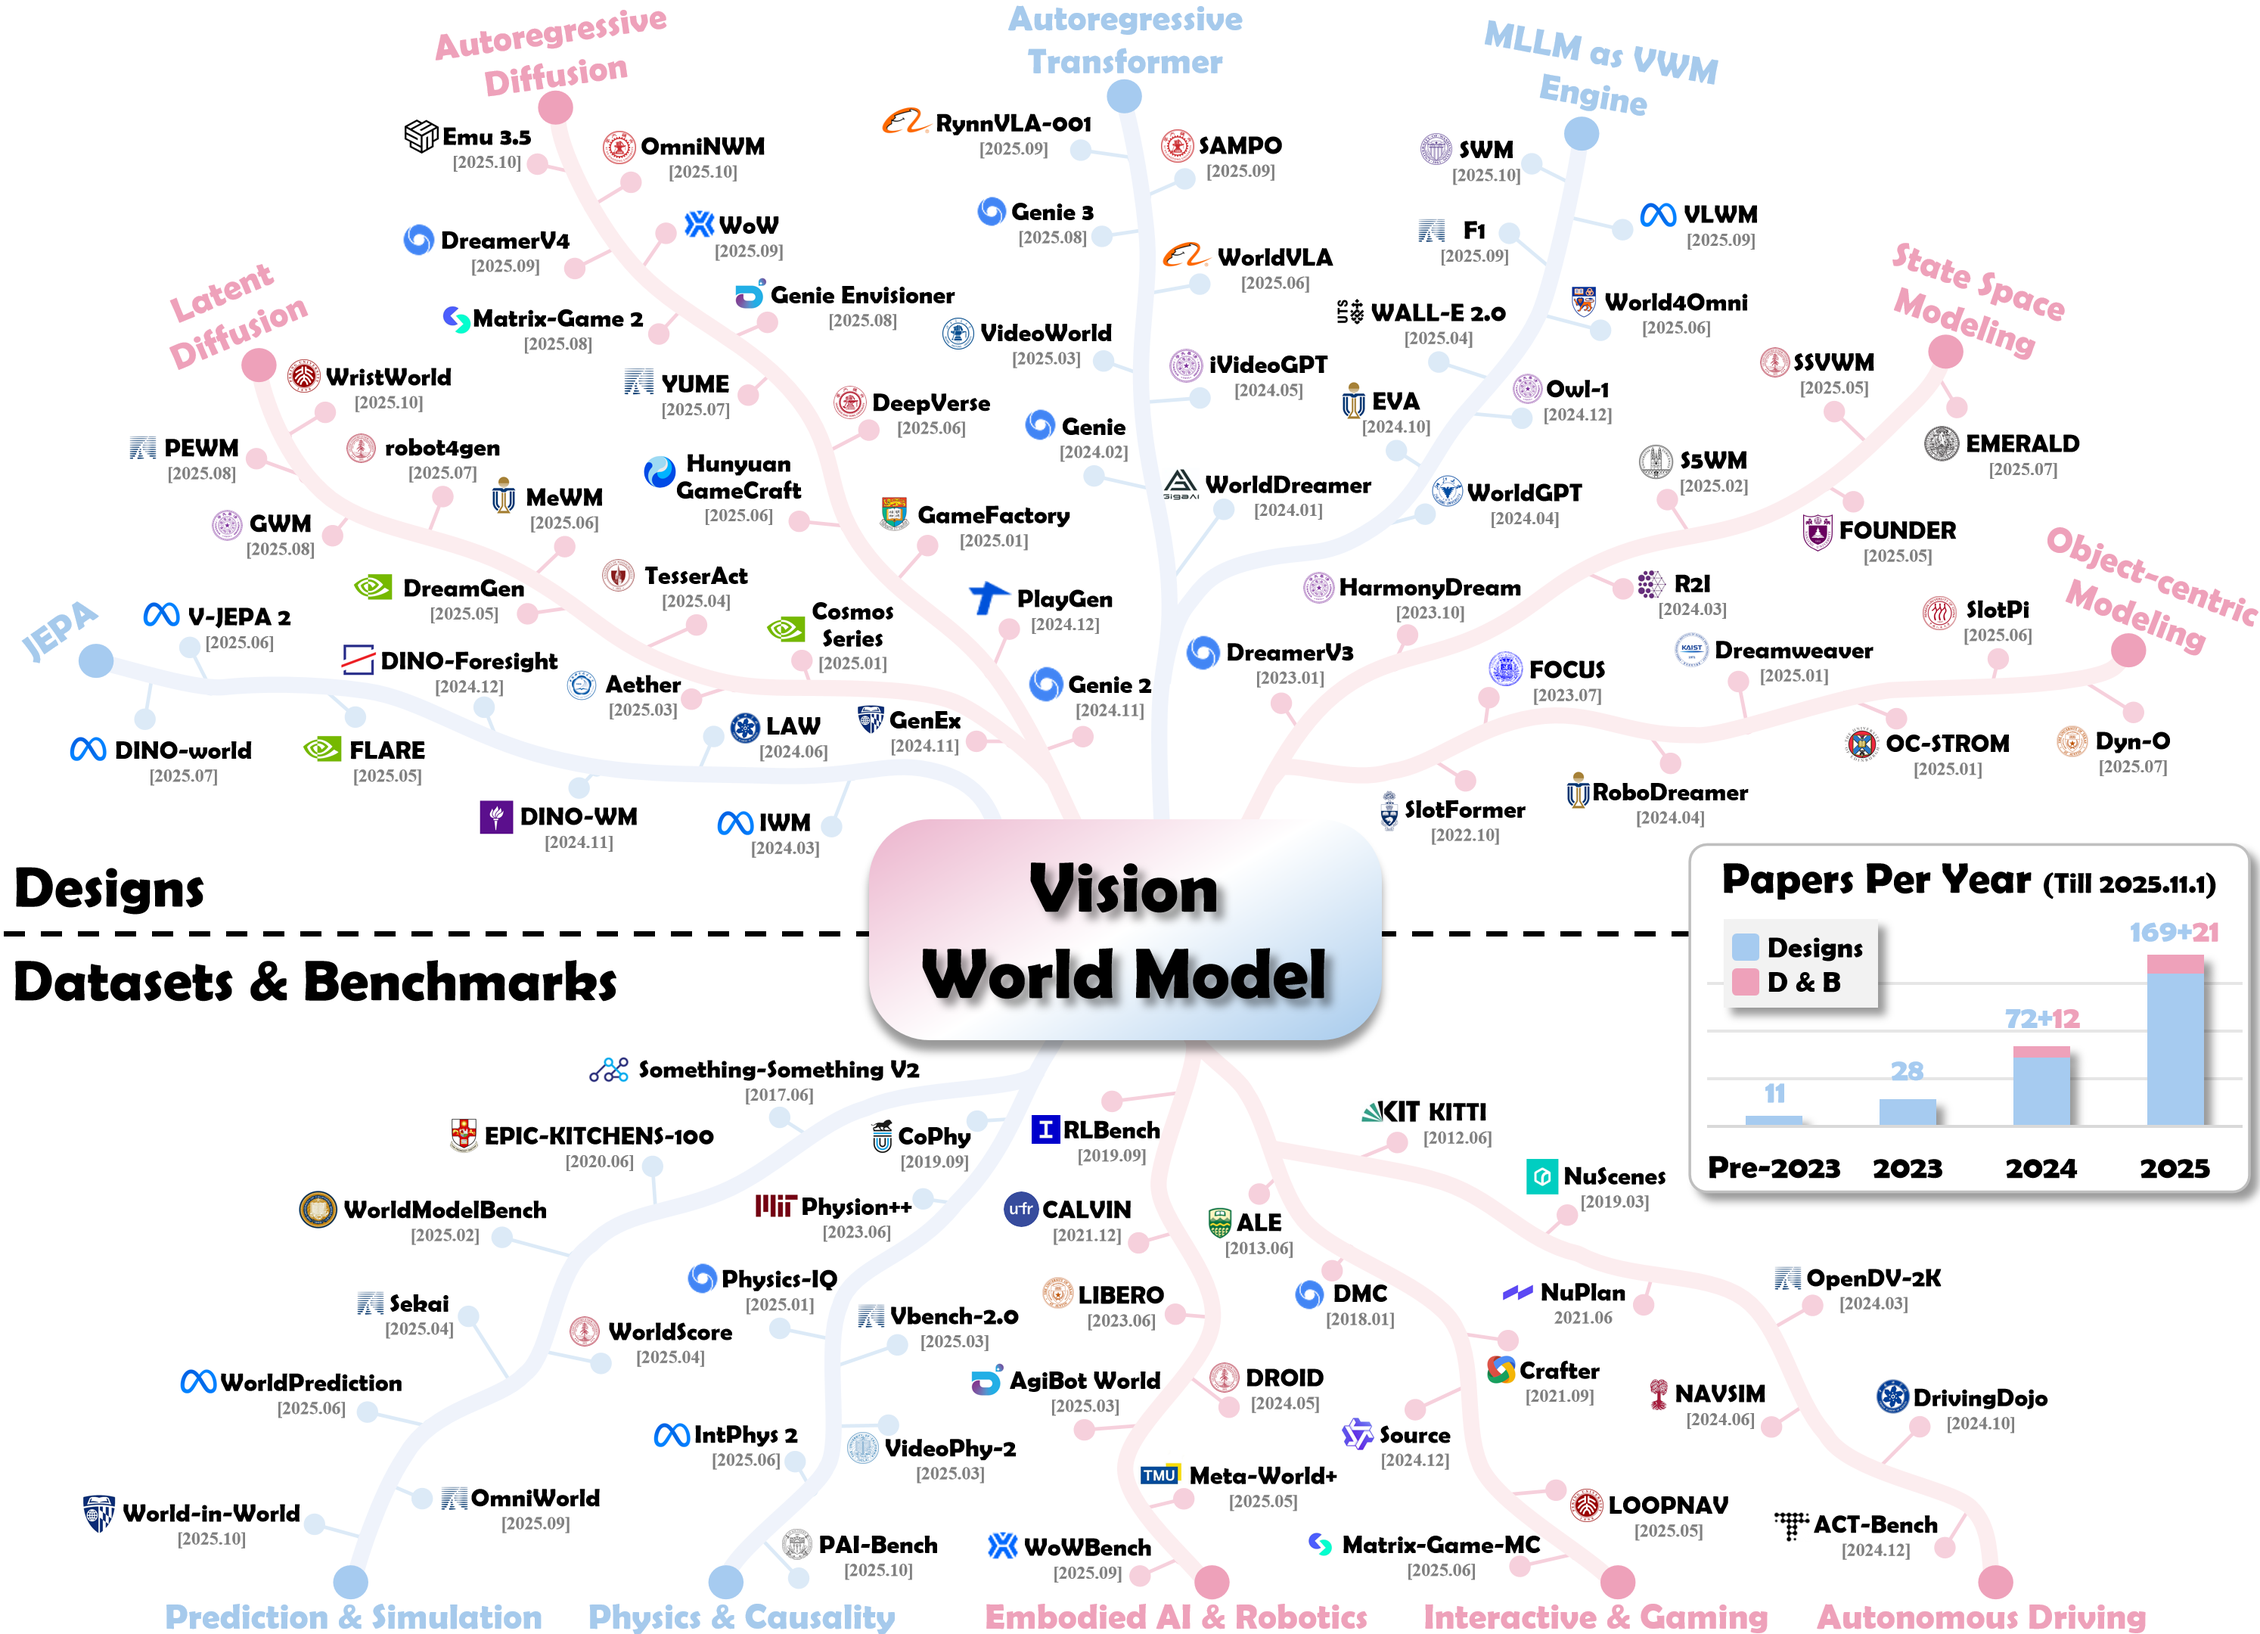
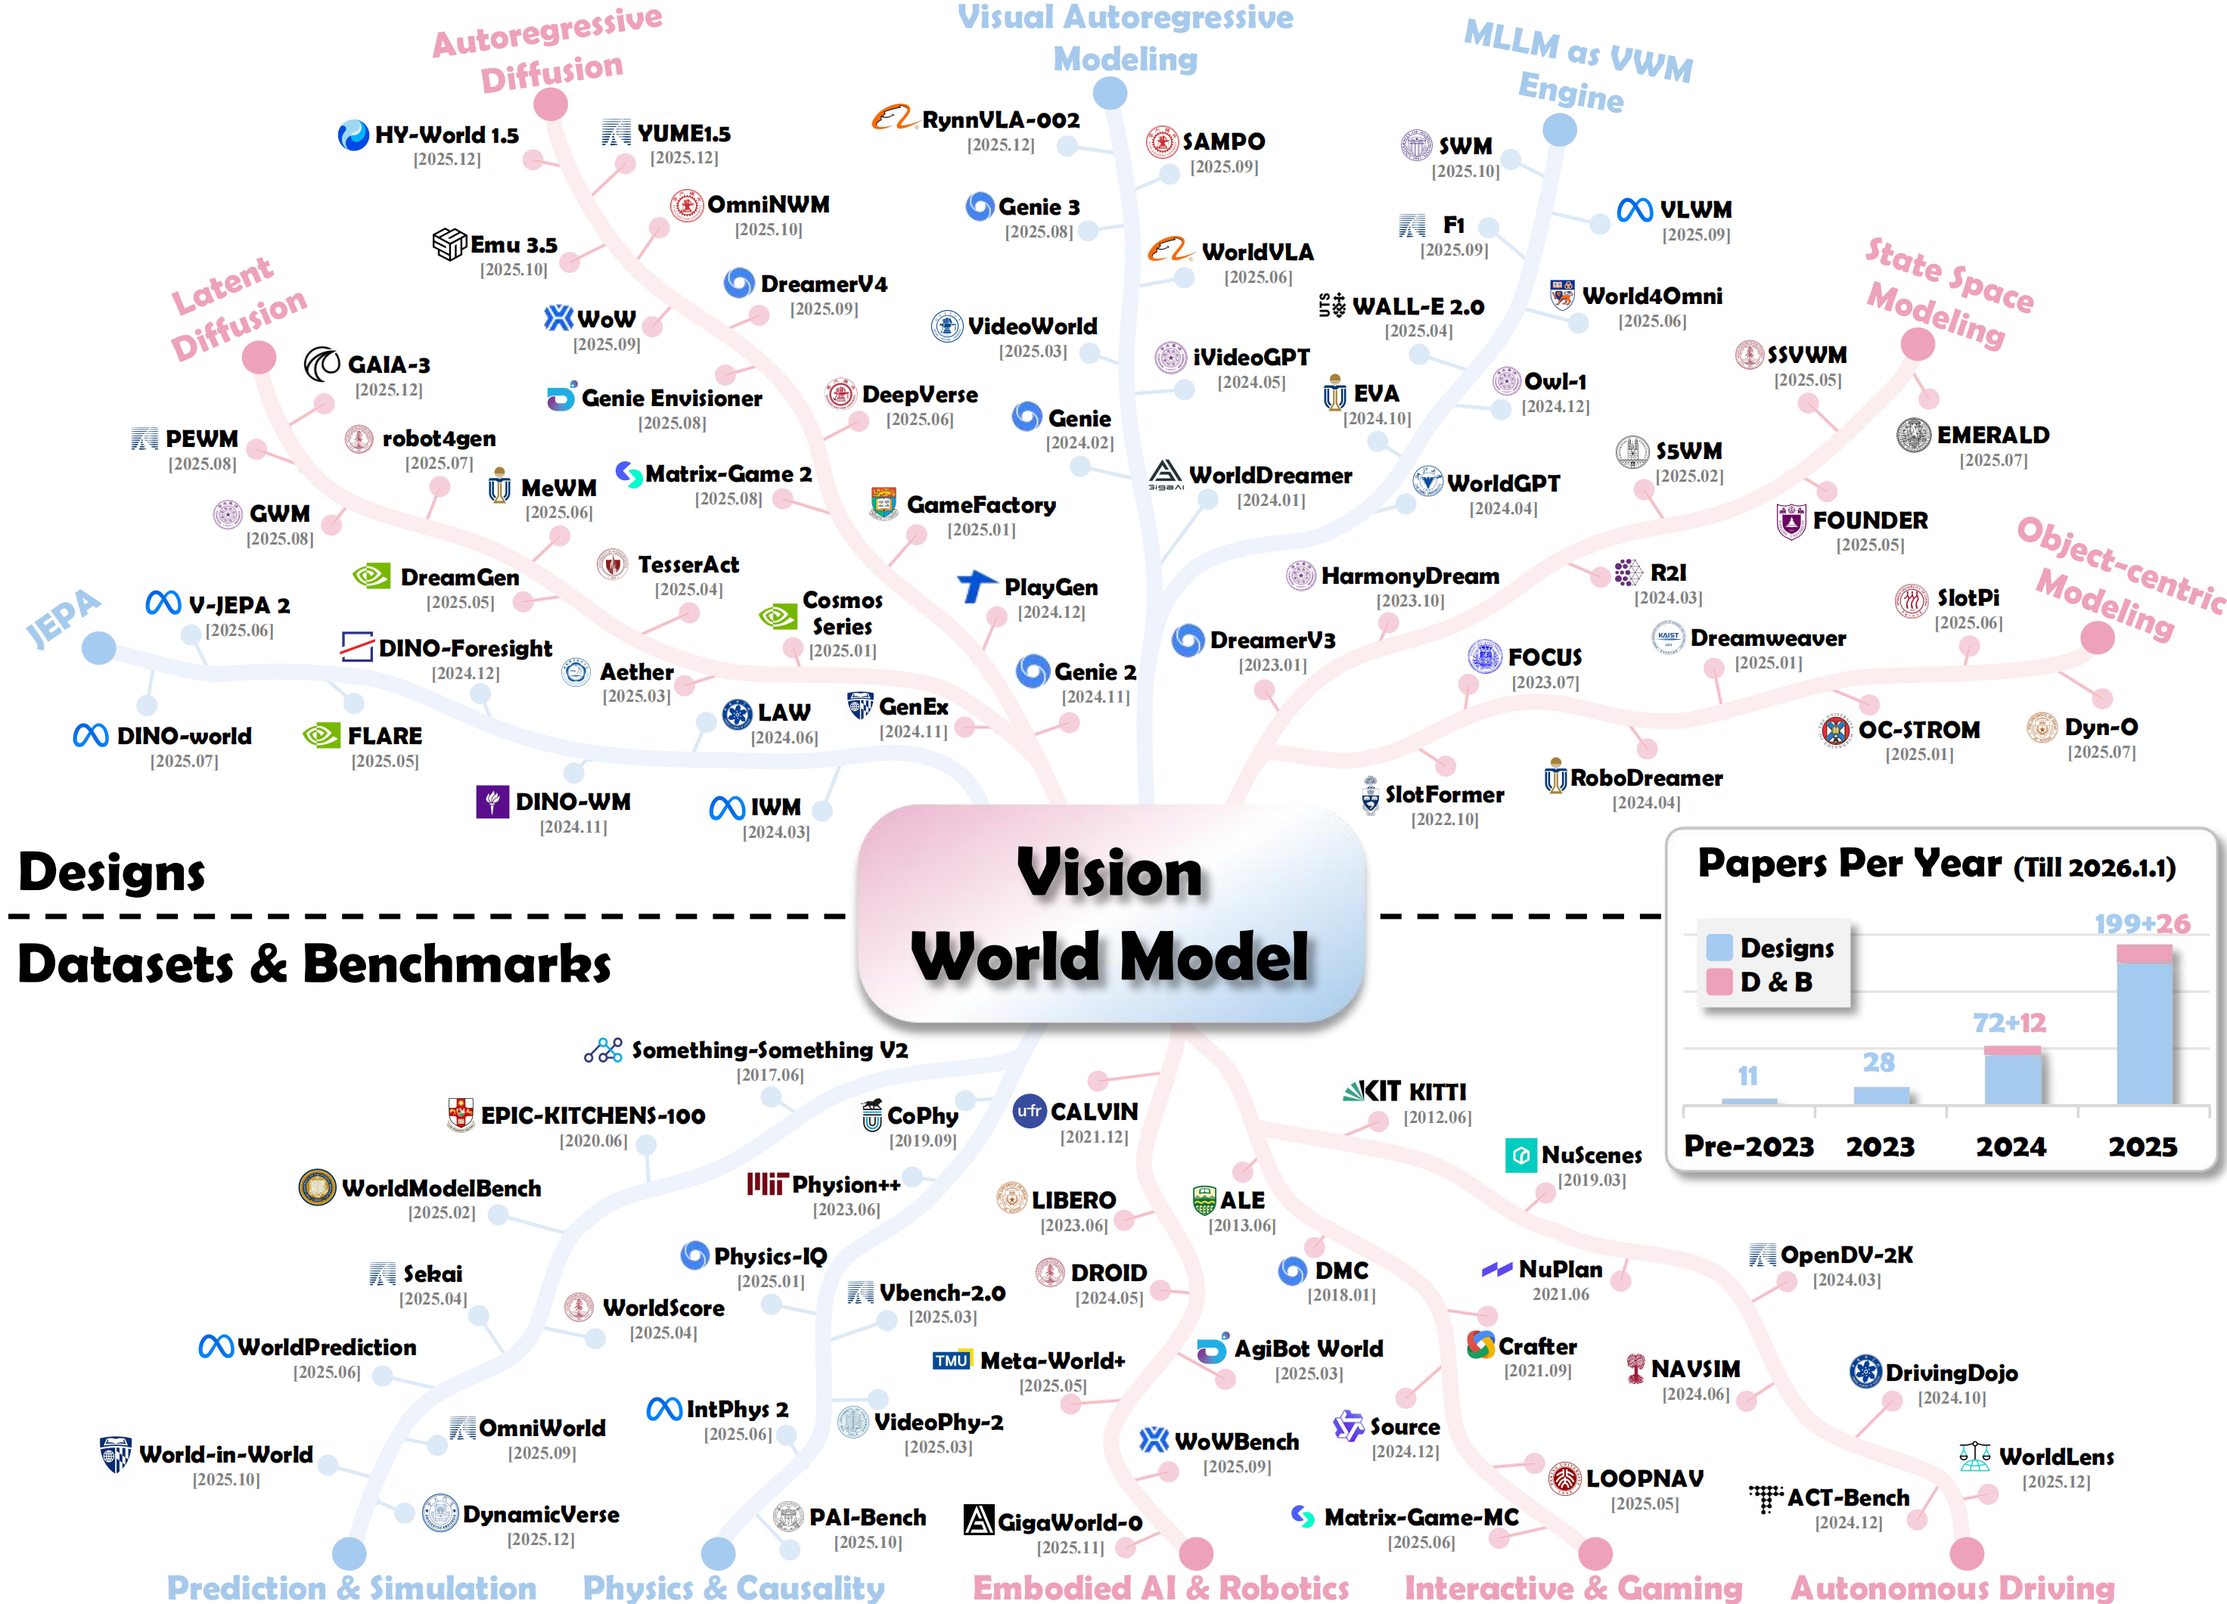
update the latest figs

diff --git a/README.md b/README.md
@@ -54,16 +54,23 @@ WIP
 
 # 0. Background
 
-## About Vision World Model
+## About Vision World Model (VWM)
 Definition:
 
->A vision world model (VWM) is a system that understands and simulates the laws of the physical world through visual observation and conditioned interaction.
+>A vision world model is an AI model that learns to simulate the physical world through visual observation.
 
-we establish a conceptual framework that decomposes VWM into three essential components.
+Formally, a VWM can be seen as a probabilistic model $ f_{\theta} $ that predicts the distribution of future states given observed visual context and interactive conditions:
 
-* (1) The Perceptual Foundation: How visual streams (RGB, depth, point clouds, etc.) are encoded into structured representations.
+$$ p(\mathcal{R}_{t+1:T}| v_{0:t}, c_{t}) = f_{\theta} (\mathcal{E}(v_{0:t}), c_{t}) $$
 
-* (2) The Cognitive Core: What "rules of the world" are learned, progressing from spatio-temporal coherence to physical dynamics and causal reasoning.
+where $ v_{0:t} $ represents the sequence of visual observations from time $ 0 $ to $ t $, and $ c_{t} $ represents current conditions (e.g., agent actions, language instructions, or control signals). $ \mathcal{E}( \cdot ) $ denotes the visual encoder that maps raw inputs into tokens or embeddings.
+$ \mathcal{R}_{t+1:T} $ represents the world representation, which encompasses a broad range of future modalities depending on the paradigm, including future observations ($ v_{t+1:T} $), latent states ($ s_{t+1:T} $), or other future properties (e.g., segmentation maps, depth, flow, 3D Gaussian splats, or trajectories). 
+
+We further establish a conceptual framework that decomposes VWM into three essential components:
+
+* (1) The Perceptual Foundation: How diverse visual signals are transformed into world representation.
+
+* (2) The Dynamics Core: What "rules of the world" are learned, progressing from spatio-temporal coherence to physical dynamics and causal reasoning.
 
 * (3) The Key Capability: How VWM performs controllable simulation conditioned on actions, language, or other interaction prompts.
 
